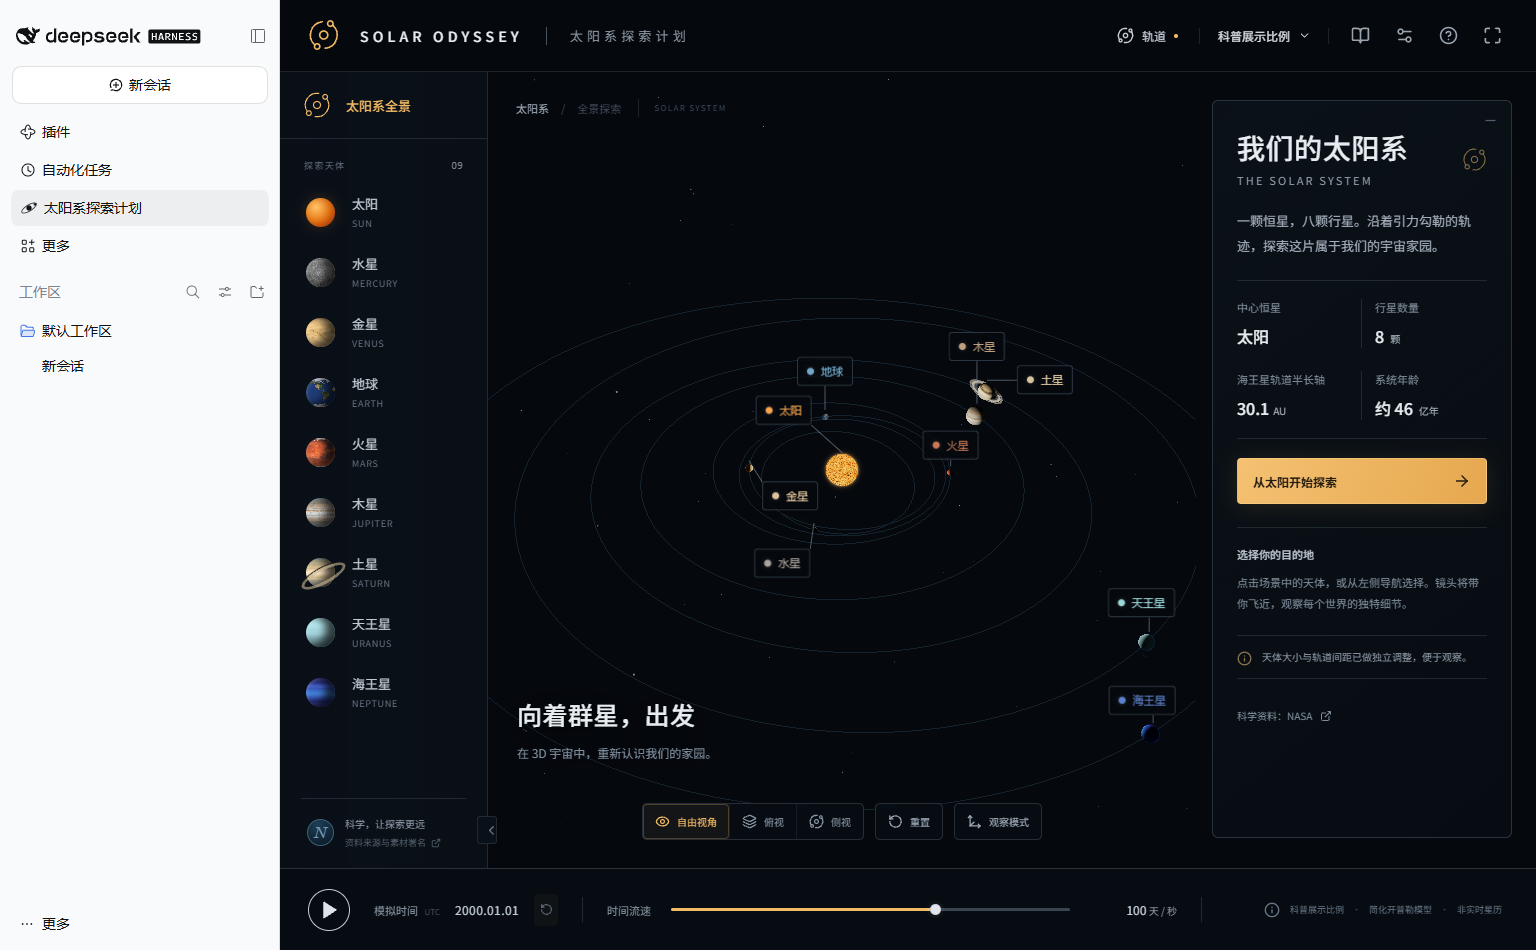
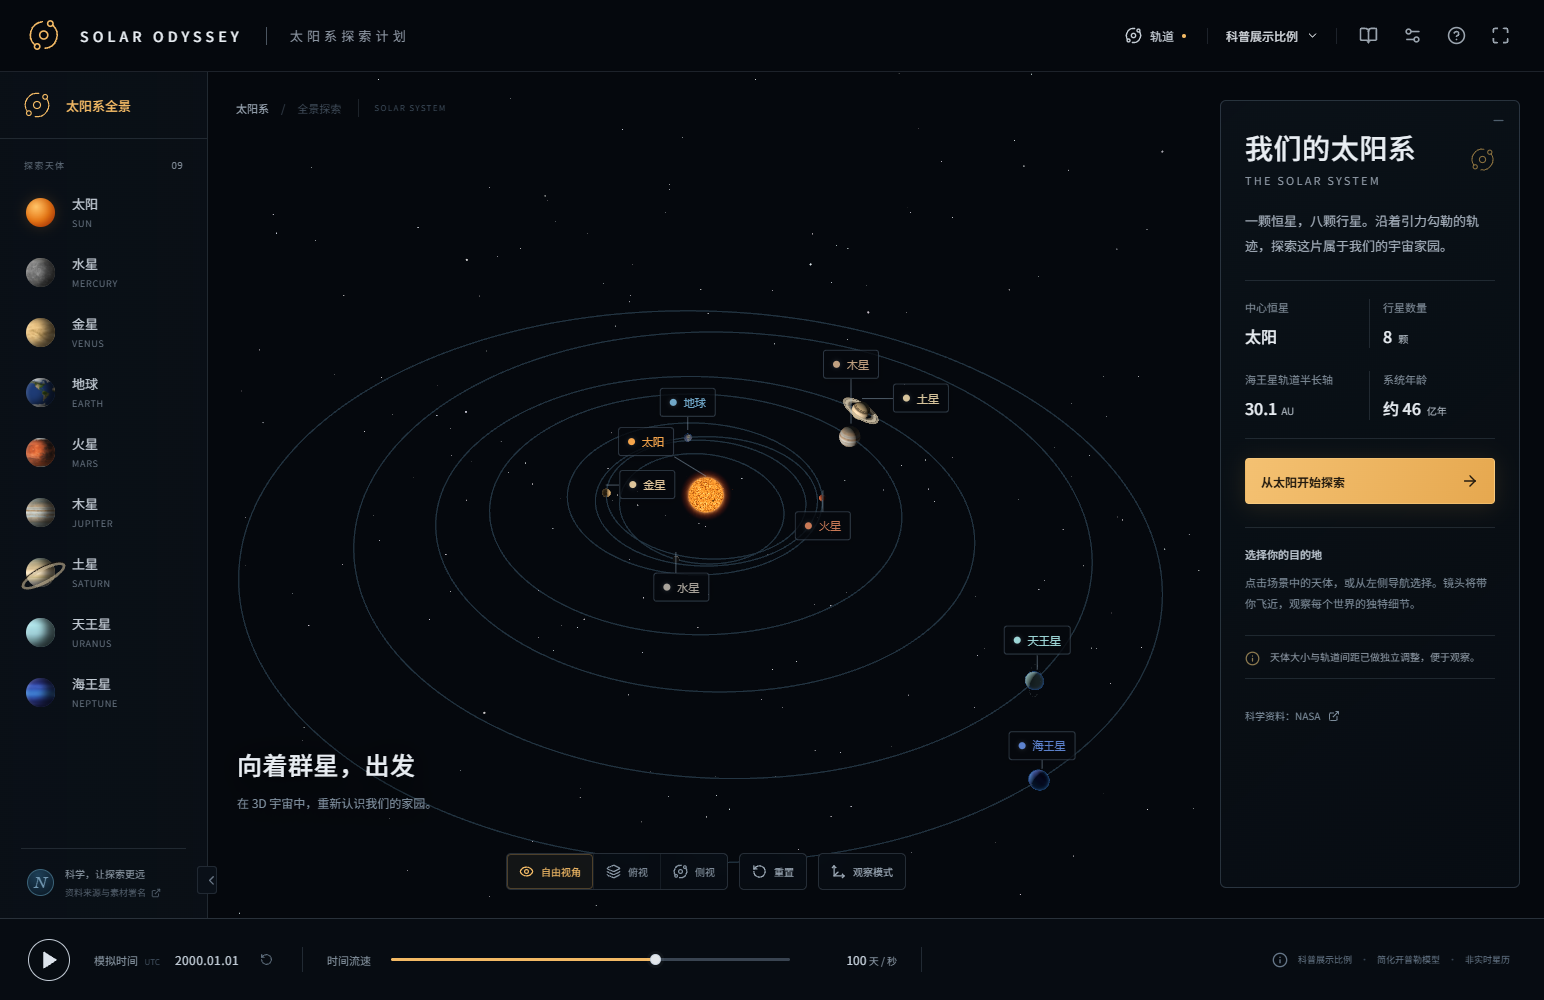
docs: add DSH gallery for the solar system

diff --git a/README.md b/README.md
@@ -2,7 +2,21 @@
 
 在 DeepSeek Harness 侧栏打开太阳系，观察太阳与八大行星的运动，进入太阳七层剖面，跟随四步课程了解能量如何向外传递。游戏界面为中文，渲染与纹理资源随包提供，游玩无需模型 API。
 
-![在 DSH 侧栏打开的太阳系全景，行星标签沿轨道分布，底部显示模拟时钟与流速](docs/images/dsh-overview.png)
+![太阳系全景，以太阳为中心，标注八大行星及各自的公转轨道](docs/images/dsh-overview.png)
+
+## 实机画面
+
+### 太阳
+
+![太阳特写，展示明亮的光球、太阳黑子与外缘的日珥](docs/images/dsh-sun.png)
+
+### 地球
+
+![地球特写，展示大陆、海洋、云层与蓝色大气边缘](docs/images/dsh-earth.png)
+
+### 土星
+
+![土星特写，从斜上方观察土星环与行星云带](docs/images/dsh-saturn.png)
 
 ## 安装到 DSH
 
